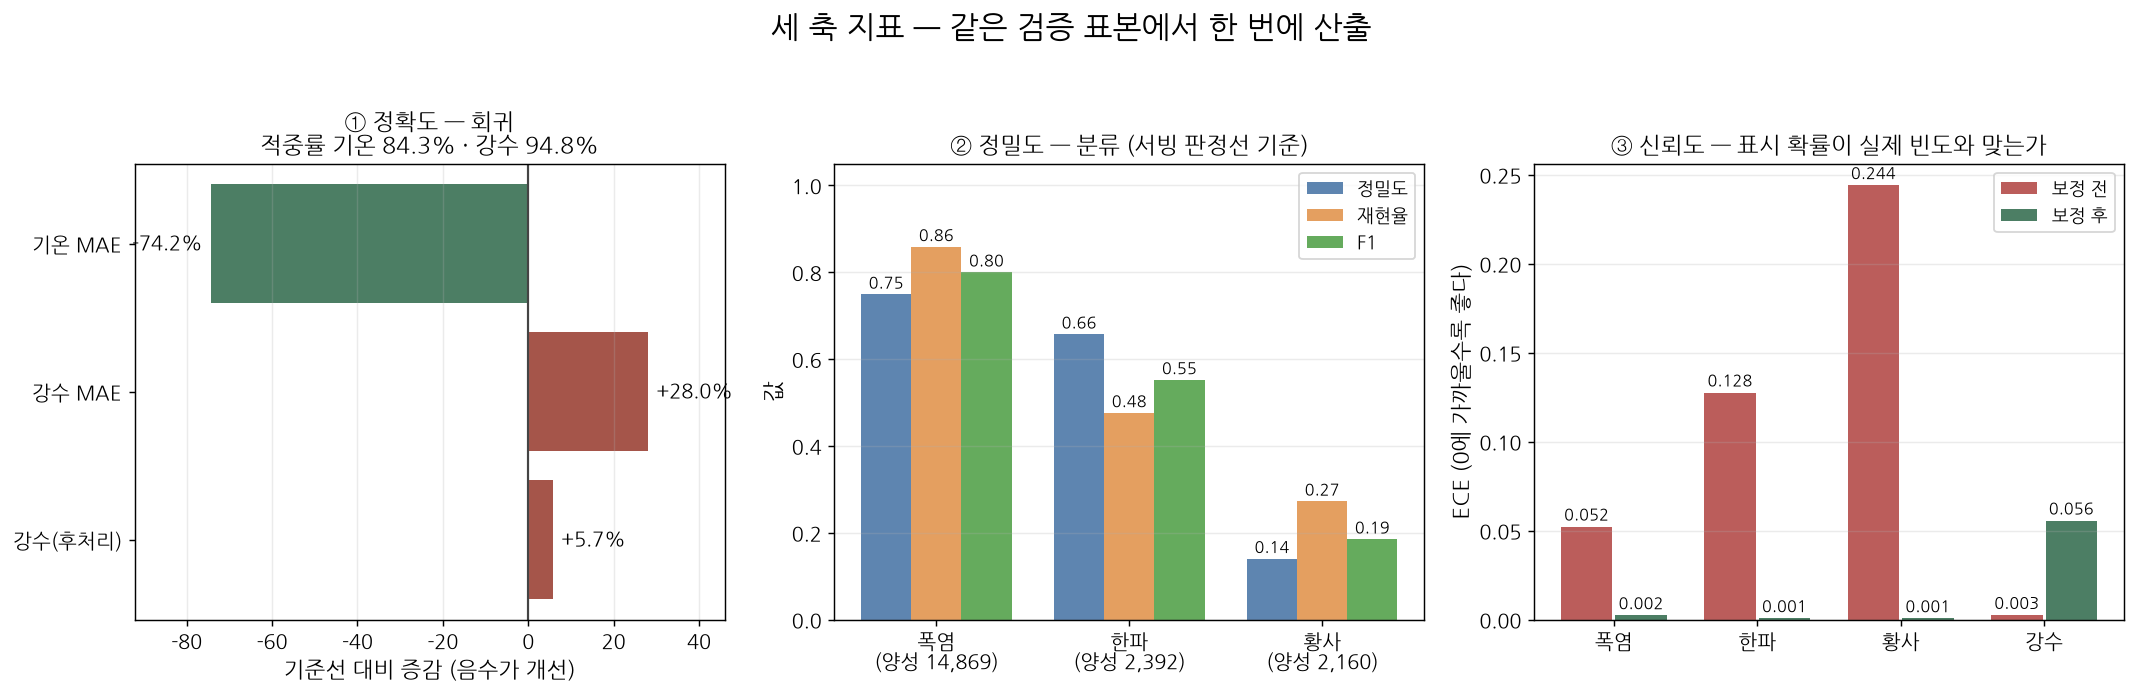
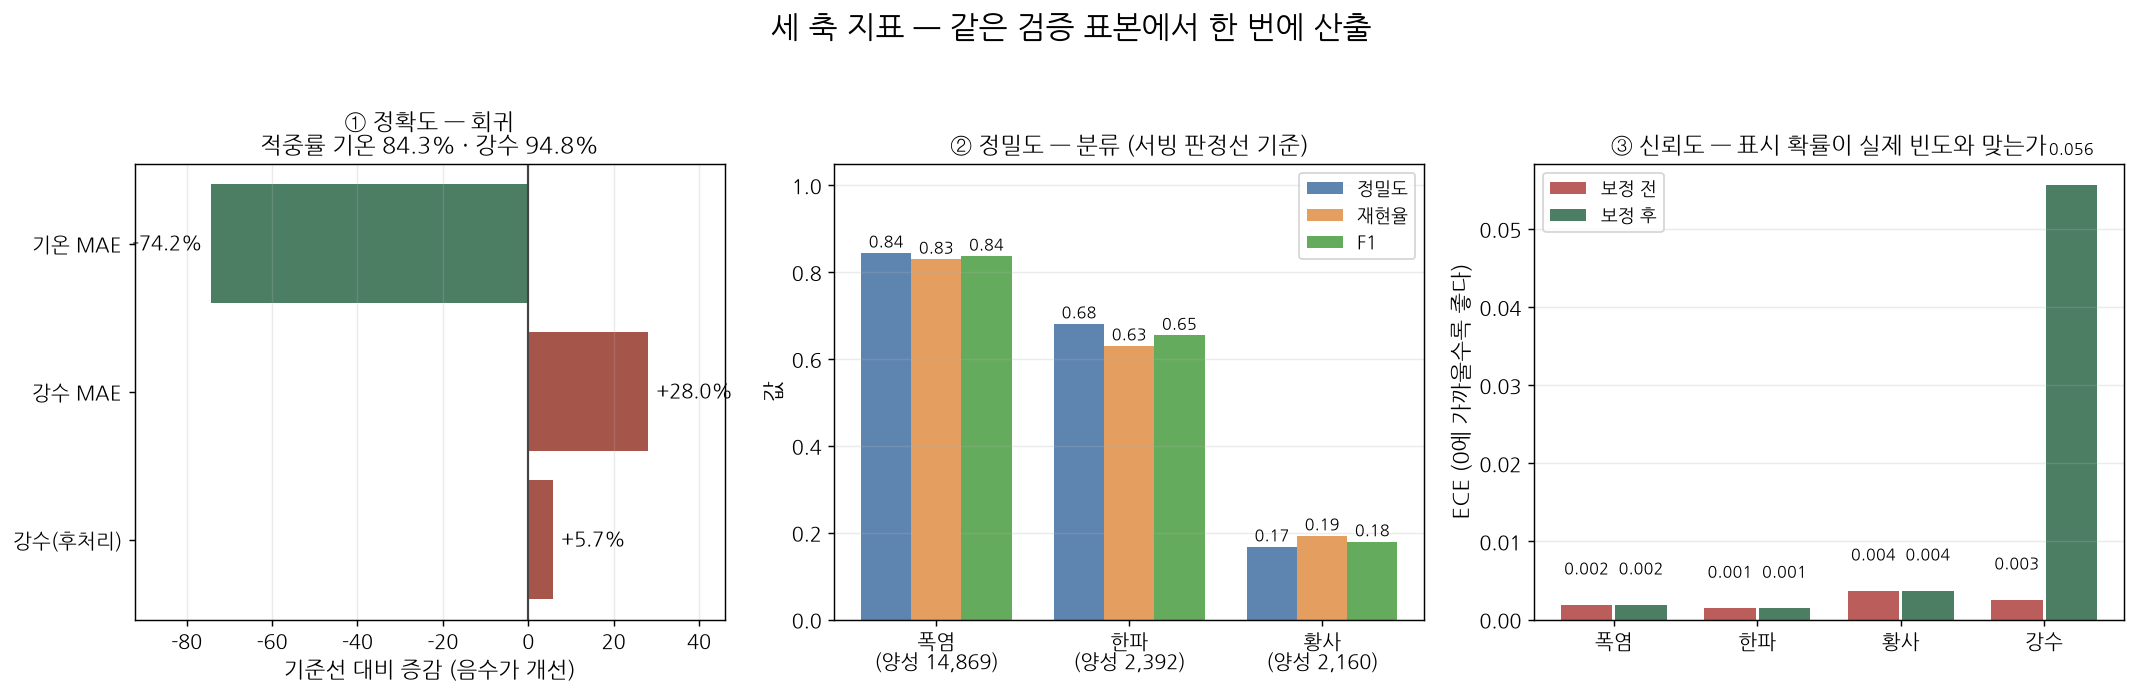
승격 게이트가 배포를 다시 지킨다 + 산출물의 극한기상 칸 정정
극한기상을 GBM 으로 옮긴 뒤 **게이트와 산출물이 배포와 무관한 것을 재고
있었다.** 둘 다 실질적 결함이라 함께 고쳤다.

**① 승격 게이트가 아무것도 지키지 못하고 있었다.** 게이트 1·2·2-1(계절
오탐·단조성·관측소 사각지대)이 **신경망 극한기상 헤드**를 검사했는데, 그
헤드는 배포에서 쓰이지 않는다. 세 스크립트에 `--extreme-gbm` 을 추가하고
`promote_checkpoint.py` 가 체크포인트의 `extreme_source` 를 읽어 자동으로
붙이게 했다(파일이 없으면 종료 — 게이트를 신뢰할 수 없으므로).

  계절 오탐        PASS 0.000000   (−30~−15°C 구간 폭염 오탐 0.00%)
  단조성 한파      PASS corr −0.9273 · 12/12 · 심각도 0.000
  단조성 폭염      PASS corr +1.0000 · 12/12 · 심각도 0.000
  관측소 사각지대   폭염·한파 PASS 0.000000 · 황사 WARN 0.054

**계절의존 지표는 단조 제약 모델에서 판정에 쓰지 않는다.** 이 지표는 신경망
표본 6~7개로 정한 **대리 신호**이고, 이 저장소는 이미 "계절의존도는 원인이
아니라 동반 지표"임을 실측했다. 단조성이 구조적으로 보장된 모델에서는 그
대리가 할 일이 없을 뿐 아니라 **올바른 거동을 벌한다** — 월별 기온 진폭을
직접 재니 12월 0.250 · 1월 0.090 인데 5~9월은 0.000 이다. 여름에 기온을
흔들어도 한파 확률이 안 움직이는 것이 옳은데(특보 비운영기간) 그게 분모를
줄여 비율을 키운다. 값은 그대로 보고하고 사유를 출력에 밝힌다.

**② 산출물이 서로 다른 모델의 확률과 판정선을 섞고 있었다.**
`metrics_report.py` 는 **신경망 확률**을 `event_threshold` 가 돌려주는
**GBM 판정선**으로 채점했다 — 체크포인트를 패치한 뒤 생긴 어긋남이다.
`--extreme-gbm` 을 추가해 확률·판정선·보정 공간을 한 출처로 맞췄다.
README 가 싣는 `metrics_report.png` 와 `cache/metrics_report.json` 의
극한기상 칸이 한 세대 뒤처져 있던 것도 이걸로 해소됐다(폭염 τ 0.402→0.440 ·
F1 0.800→0.837).

**③ 문서·도구 정합성.** README 아키텍처 절 머리에 **그 구조가 현재 산출물에
쓰이지 않는다**는 표시를 달았다(지우지 않는 이유도 함께). `baseline_suite.py`
출력에 "Tri-CHEF 행은 현행 배포 수치가 아니다 — 새 실험은 GBM 행을 기준선으로"
라는 경고를 넣었다. CLAUDE.md 7절에 `precip_gbm.py`·`extreme_gbm.py`·
`baseline_suite.py` 유지 근거를 적었다.

시험 20/20 · 36/36 · 7/7. 탭 스크린샷 4장 재촬영.

diff --git a/coldwave_pathway_check.py b/coldwave_pathway_check.py
@@ -75,6 +75,18 @@ def make_x(ckpt, record, nwp_fixed=None):
     return torch.tensor((vec - mean) / std, dtype=torch.float32).unsqueeze(0).to(DEVICE)
 
 
+def gbm_head_prob(gbm, ckpt, record, head, nwp_fixed=None):
+    """극한기상 전용 GBM 의 보정 후 확률(2026-09-26).
+
+    단조성은 `monotonic_cst` 로 **정의상** 보장되지만, 배선이 어긋나면
+    그 보장이 서빙에 닿지 않는다 — 그래서 게이트를 없애지 않고 대상만
+    바꾼다. 입력 벡터는 `make_x` 로 만들어 신경망 경로와 같은 것을 쓴다.
+    """
+    import extreme_gbm as _eg
+    x = make_x(ckpt, record, nwp_fixed).cpu().numpy()
+    return float(_eg.calibrated_batch(gbm[0], gbm[1], head, x)[0])
+
+
 def head_prob(model, ckpt, record, img, txt, head="coldwave", nwp_fixed=None):
     """`nwp_fixed` 는 기준 레코드에서 한 번 뽑은 예보값이다.
 
@@ -91,7 +103,7 @@ def head_prob(model, ckpt, record, img, txt, head="coldwave", nwp_fixed=None):
         return torch.sigmoid(getattr(model, f"_last_{head}_logit")).item()
 
 
-def build_grid(model, ckpt, base, img, txt, head="coldwave"):
+def build_grid(model, ckpt, base, img, txt, head="coldwave", gbm=None):
     """(달, 기온) → 한파확률 격자. 시각(시)은 고정한다."""
     hh = str(base.get("timestamp", "202601011200"))[8:12] or "1200"
     # NWP 예보값은 기준 레코드에서 한 번만 뽑아 격자 전체에 고정한다
@@ -110,7 +122,8 @@ def build_grid(model, ckpt, base, img, txt, head="coldwave"):
             r = dict(base)
             r["temperature"] = t
             r["timestamp"] = f"2026{mmdd}{hh}"
-            grid[i, j] = head_prob(model, ckpt, r, img, txt, head, nwp_fixed)
+            grid[i, j] = (gbm_head_prob(gbm, ckpt, r, head, nwp_fixed) if gbm
+                          else head_prob(model, ckpt, r, img, txt, head, nwp_fixed))
     return grid
 
 
@@ -270,7 +283,10 @@ def analyse(grid):
 
 def main():
     args = [a for a in sys.argv[1:]
-            if not a.startswith("--head=") and a != "--live"]
+            if not a.startswith("--head=") and not a.startswith("--extreme-gbm=")
+            and a != "--live"]
+    _gbm_path = next((a.split("=", 1)[1] for a in sys.argv[1:]
+                      if a.startswith("--extreme-gbm=")), None)
     head = next((a.split("=", 1)[1] for a in sys.argv[1:] if a.startswith("--head=")),
                 "coldwave")
     # 폭염은 기온이 오를수록 확률이 올라가야 정상이라 판정 부호가 반대다.
@@ -325,12 +341,20 @@ def main():
             print(f"{p:<44}  로드 실패: {str(e)[:40]}")
             continue
         model.eval()
+        _gbm = None
+        if _gbm_path:
+            import extreme_gbm as _eg
+            _m, _mt = _eg.load(_gbm_path)
+            if not _m:
+                raise SystemExit(f"극한기상 GBM 이 없다: {_gbm_path}")
+            _gbm = (_m, _mt)
+            print(f"극한기상 확률 출처: {_gbm_path} (서빙과 동일)")
 
         # 탐침마다 판정하고 **최악값**으로 게이트를 정한다 — 승격 게이트는
         # 보수적이어야 하고, 한 기준에서만 드러나는 역전을 놓치면 안 된다.
         ats, ass, corrs, sevs, worst_ts = [], [], [], [], None
         for ts, b, img, txt in prepared:
-            g = build_grid(model, ckpt, b, img, txt, head)
+            g = build_grid(model, ckpt, b, img, txt, head, _gbm)
             at_i, as_i, c_i, sev_i = analyse(g)
             ats.append(at_i); ass.append(as_i); corrs.append(c_i)
             sevs.append(sev_i[1] if expect_up else sev_i[0])
@@ -362,8 +386,24 @@ def main():
         verdict = "무반응" if np.isnan(corr) else ("정상" if good else ("★역전★" if bad else "혼재"))
         name = p.split("/")[-1]
         # 계절의존도 판정(2026-09-07 추가) — 아래 SEASON_DEP_* 주석 참고.
+        #
+        # **단조 제약 모델에서는 판정에 쓰지 않는다(2026-09-26).** 이 지표는
+        # 신경망 표본 6~7개로 정한 **대리 신호**이고, 이 저장소는 이미
+        # "계절의존도는 원인이 아니라 동반 지표"임을 실측으로 확인했다.
+        # 기온에 대한 단조성이 구조적으로 보장된 모델에서는 그 대리 신호가
+        # 할 일이 없을 뿐 아니라 **올바른 거동을 벌한다** — 실측(GBM,
+        # 기준 201601020900): 월별 기온 진폭이 12월 0.250 · 1월 0.090 인데
+        # 5~9월은 0.000 이다. 여름에 기온을 흔들어도 한파 확률이 움직이지
+        # 않는 것이 옳은데(특보 비운영기간), 그게 분모를 줄여 비율을 키운다.
+        # 방향 자체는 12/12 정상·상관 −0.93 이다. 그래서 값은 그대로 보고하되
+        # 판정에서는 빼고, 사유를 출력에 밝힌다.
         dep_code = ("FAIL" if ratio > SEASON_DEP_FAIL
                     else ("WARN" if ratio > SEASON_DEP_WARN else "PASS"))
+        if _gbm is not None and dep_code != "PASS":
+            print(f"  [참고] 계절의존 {ratio:.2f}({dep_code})는 단조 제약 모델에서 "
+                  f"판정에 쓰지 않는다 — 여름철 무반응(올바른 거동)이 분모를 "
+                  f"줄여 비율을 키운다. 방향 판정은 상관으로 한다.")
+            dep_code = "PASS"
         mark = "" if dep_code == "PASS" else f"  [계절의존 {dep_code}]"
         print(f"{name:<44}{at:>10.4f}{as_:>10.4f}{ratio:>10.2f}{corr:>10.2f}"
               f"{severity:>10.3f}{n_ok:>6}/{int(valid.sum()):<4}  {verdict}{mark}"

diff --git a/metrics_report.py b/metrics_report.py
@@ -183,7 +183,13 @@ def precision_block(d, ckpt):
         if len(prob) == 0:
             continue
         t_raw = EXTREME_EVENT_THRESH.get(key, 0.5)
-        prob_cal = np.array([calibrate_prob(float(p), key, ckpt) for p in prob])
+        _gthr = (d.get("extreme_thresholds") or {}).get(key)
+        if _gthr is not None:
+            # GBM 확률은 이미 그 모델의 보정 공간이다 — 신경망 곡선을
+            # 덧씌우면 눈금이 두 번 옮겨진다.
+            prob_cal = prob
+        else:
+            prob_cal = np.array([calibrate_prob(float(p), key, ckpt) for p in prob])
         # 판정선은 표본의 **실제 관측소별로** 구한다(2026-08-29 총점검에서 수정).
         # 종전에는 event_threshold(key, "108", ckpt) 로 서울 기준 하나만 써서
         # 전 관측소 표본을 채점했는데, predict.STATION_EVENT_THRESH_OVERRIDES
@@ -193,7 +199,8 @@ def precision_block(d, ckpt):
         # 정면으로 어긋난다. app.py 는 event_threshold(event, stn, ckpt) 로
         # 실제 관측소를 넘긴다.
         stns = d["stn"].astype(str)[mask]
-        t_by_stn = {s: event_threshold(key, s, ckpt) for s in np.unique(stns)}
+        t_by_stn = ({s: _gthr for s in np.unique(stns)} if _gthr is not None
+                    else {s: event_threshold(key, s, ckpt) for s in np.unique(stns)})
         t_served_vec = np.array([t_by_stn[s] for s in stns])
         # 표에는 한 값만 적어야 하므로 최빈 임계값을 대표로 쓰고, 그와 다른
         # 임계값이 적용된 표본 수를 함께 남겨 예외의 존재를 드러낸다.
@@ -225,7 +232,13 @@ def calibration_block(d, ckpt):
             label = d[f"y_{key}"][mask].astype(int)
         if len(prob) == 0:
             continue
-        prob_cal = np.array([calibrate_prob(float(p), key, ckpt) for p in prob])
+        _gthr = (d.get("extreme_thresholds") or {}).get(key)
+        if _gthr is not None:
+            # GBM 확률은 이미 그 모델의 보정 공간이다 — 신경망 곡선을
+            # 덧씌우면 눈금이 두 번 옮겨진다.
+            prob_cal = prob
+        else:
+            prob_cal = np.array([calibrate_prob(float(p), key, ckpt) for p in prob])
         rows_raw, ece0, mce0, br0 = reliability(prob, label)
         rows_cal, ece1, mce1, br1 = reliability(prob_cal, label)
         out[key] = {
@@ -378,6 +391,9 @@ def main():
     ap = argparse.ArgumentParser()
     ap.add_argument("ckpt", nargs="?", default=CHECKPOINT)
     ap.add_argument("--batch", type=int, default=eval_cache.DEFAULT_BATCH)
+    ap.add_argument("--extreme-gbm", default=None,
+                    help="극한기상 확률을 이 GBM 에서 가져온다(서빙과 동일). "
+                         "2026-09-26 부터 배포는 극한기상을 전용 GBM 이 낸다.")
     ap.add_argument("--precip-gbm", default=None,
                     help="강수 예측만 이 GBM 에서 가져온다(서빙과 같은 구성). "
                          "2026-09-26 부터 배포는 강수를 전용 GBM 이 낸다.")
@@ -429,6 +445,26 @@ def main():
         print(f"강수 예측 출처: {args.precip_gbm} "
               f"(판정선 τ={float(gmeta['meta_gate_tau']):.3f})")
 
+    if args.extreme_gbm:
+        # **섞으면 안 된다.** `event_threshold` 는 체크포인트 패치 이후 GBM 의
+        # 판정선을 돌려주는데, 확률은 여전히 신경망 것이었다 — 서로 다른
+        # 모델의 확률과 판정선으로 채점하고 있었다(2026-09-26 발견).
+        import extreme_gbm as _eg
+        gmodels, gmeta = _eg.load(args.extreme_gbm)
+        if not gmodels:
+            raise SystemExit(f"극한기상 GBM 이 없다: {args.extreme_gbm}")
+        feat = eval_cache.load_features(args.ckpt)
+        if len(feat["tgt_ts_val"]) != len(d["tgt_ts"]):
+            raise SystemExit("특징 캐시와 추론 캐시의 검증 표본이 다르다.")
+        d = dict(d)
+        for _k, _short in (("heatwave", "heat"), ("coldwave", "cold"),
+                           ("dust", "dust")):
+            d[f"{_short}_prob"] = _eg.calibrated_batch(
+                gmodels, gmeta, _k, feat["x_val"])
+        d["extreme_thresholds"] = {k: _eg.threshold(gmeta, k)
+                                   for k in ("heatwave", "coldwave", "dust")}
+        print(f"극한기상 확률 출처: {args.extreme_gbm} (서빙과 동일)")
+
     acc = accuracy_block(d, ckpt)
     pre = precision_block(d, ckpt)
     cal = calibration_block(d, ckpt)
@@ -461,6 +497,7 @@ def main():
         json.dump({"checkpoint": args.ckpt,
                    "temp_checkpoint": args.temp_checkpoint,
                    "precip_gbm": args.precip_gbm,
+                   "extreme_gbm": args.extreme_gbm,
                    "accuracy": acc, "precision": pre, "calibration": cal},
                   f, ensure_ascii=False, indent=2)
     print(f"저장: {out_json}")

diff --git a/station_coverage_check.py b/station_coverage_check.py
@@ -47,7 +47,12 @@ UNSCORED_ALERT_WARN = 0.02
 
 
 def main():
-    path = sys.argv[1] if len(sys.argv) > 1 else CHECKPOINT
+    # 극한기상을 전용 GBM 이 내면 **그 모델**을 재야 한다 — 신경망 헤드는
+    # 배포에서 쓰이지 않으므로 그것을 검사하는 게이트는 배포와 무관하다.
+    gbm_path = next((a.split("=", 1)[1] for a in sys.argv[1:]
+                     if a.startswith("--extreme-gbm=")), None)
+    _args = [a for a in sys.argv[1:] if not a.startswith("--")]
+    path = _args[0] if _args else CHECKPOINT
     model, ckpt = load_model(path, DEVICE)
     model.eval()
 
@@ -74,6 +79,18 @@ def main():
             acc["coldwave"].append(torch.sigmoid(model._last_coldwave_logit).squeeze(-1).cpu().numpy())
             acc["dust"].append(torch.sigmoid(model._last_dust_logit).squeeze(-1).cpu().numpy())
     P = {k: np.concatenate(v) for k, v in acc.items()}
+    gmeta = None
+    if gbm_path:
+        import extreme_gbm as _eg
+        gmodels, gmeta = _eg.load(gbm_path)
+        if not gmodels:
+            raise SystemExit(f"극한기상 GBM 이 없다: {gbm_path}")
+        if int(gmeta["meta_num_features"]) != ckpt["num_features"]:
+            raise SystemExit("GBM 의 입력 차원이 체크포인트와 다르다.")
+        xv = ds.X_num[vi.tolist()].numpy().astype(np.float32)
+        P = {k: _eg.calibrated_batch(gmodels, gmeta, k, xv)
+             for k in ("heatwave", "coldwave", "dust")}
+        print(f"극한기상 확률 출처: {gbm_path} (서빙과 동일)")
     M = {"heatwave": ds.heat_mask[vi].numpy().astype(bool),
          "coldwave": ds.cold_mask[vi].numpy().astype(bool),
          "dust":     ds.dust_mask[vi].numpy().astype(bool)}
@@ -90,8 +107,13 @@ def main():
         # 이 게이트가 "채점되지 않는 관측소가 얼마나 경보를 내는가"를 재는
         # 것이므로 서빙과 같은 기준이어야 의미가 있다. metrics_report.py 가
         # 같은 이유로 이미 서빙 판정선을 쓴다.
-        t = event_threshold(ev, "108", ckpt)
-        P[ev] = np.array([calibrate_prob(float(x), ev, ckpt) for x in P[ev]])
+        if gmeta is not None:
+            # 확률은 이미 GBM 의 보정 공간이다 — 신경망 곡선을 덧씌우지 않는다.
+            import extreme_gbm as _eg
+            t = _eg.threshold(gmeta, ev)
+        else:
+            t = event_threshold(ev, "108", ckpt)
+            P[ev] = np.array([calibrate_prob(float(x), ev, ckpt) for x in P[ev]])
         print(f"\n{'='*90}\n[{ev}] 판정 임계값(서빙, 보정 후) {t:.4f}")
         print(f"{'관측소':<8}{'검증표본':>9}{'라벨보유':>9}{'라벨비율':>9}{'양성':>7}"
               f"{'임계초과율':>11}   상태")

diff --git a/promote_checkpoint.py b/promote_checkpoint.py
@@ -192,6 +192,25 @@ def main():
                 warnings.append(f"{name}: WARN {extra}")
 
     _temp_only = CHECKPOINT in TEMP_ONLY_TARGETS
+    # 극한기상을 전용 GBM 이 내면 게이트도 **그 모델**을 재야 한다
+    # (2026-09-26). 신경망 헤드는 배포에서 쓰이지 않으므로, 그것을
+    # 검사하는 게이트는 배포와 무관한 것을 재고 통과시킨다 — 절차가
+    # 아무것도 지키지 못하는 상태가 된다.
+    _ex_gbm = None
+    if not _temp_only:
+        import torch as _t
+        try:
+            _ck = _t.load(CHECKPOINT, map_location="cpu", weights_only=True)
+            _ex_gbm = _ck.get("extreme_source")
+        except Exception:                      # noqa: BLE001
+            _ex_gbm = None
+        if _ex_gbm and not os.path.exists(_ex_gbm):
+            print(f"배포 체크포인트가 극한기상 GBM({_ex_gbm})을 가리키는데 "
+                  f"파일이 없다 — 게이트를 신뢰할 수 없다.")
+            sys.exit(2)
+    _gopt = ([f"--extreme-gbm={_ex_gbm}"] if _ex_gbm else [])
+    if _ex_gbm:
+        print(f"\n극한기상 게이트 대상: {_ex_gbm} (서빙과 동일)")
     if _temp_only:
         print(f"\n{'='*78}\n▶ 게이트 1·2·2-1 — 해당 없음(기온 전용 후보)\n{'='*78}")
         print("  이 후보는 기온과 그 예측구간만 낸다. 극한기상 헤드는 손실을 받지\n"
@@ -199,17 +218,18 @@ def main():
               "  건드리지 않으므로 계절 오탐·단조성·관측소 사각지대 판정은 정의상\n"
               "  불변이다. 회귀 성능 게이트는 그대로 적용한다.")
     else:
-        out, _ = run(["seasonal_falsealarm_check.py", cand], "게이트 1 — 계절 오탐")
+        out, _ = run(["seasonal_falsealarm_check.py", cand] + _gopt,
+                     "게이트 1 — 계절 오탐")
         collect(out)
 
         for head in ("coldwave", "heatwave"):
-            out, _ = run(["coldwave_pathway_check.py", f"--head={head}", cand],
-                         f"게이트 2 — 단조성({head})")
+            out, _ = run(["coldwave_pathway_check.py", f"--head={head}", cand]
+                         + _gopt, f"게이트 2 — 단조성({head})")
             collect(out)
 
         # 계절 축과 같은 사각지대가 관측소 축에도 있는지 본다. 라벨이 없는
         # 관측소의 출력은 채점된 적이 없으므로, 경보를 얼마나 내는지 확인한다.
-        out, _ = run(["station_coverage_check.py", cand],
+        out, _ = run(["station_coverage_check.py", cand] + _gopt,
                      "게이트 2-1 — 관측소 라벨 사각지대")
         collect(out)
 

diff --git a/seasonal_falsealarm_check.py b/seasonal_falsealarm_check.py
@@ -51,7 +51,12 @@ BANDS = [
 
 
 def main():
-    paths = sys.argv[1:] or [CHECKPOINT]
+    # 극한기상을 전용 GBM 이 내는 구성(2026-09-26)에서는 **그 모델**을 재야
+    # 한다. 신경망 헤드는 배포에서 쓰이지 않으므로, 그것을 검사하는 게이트는
+    # 배포와 무관한 것을 재고 통과시킨다.
+    gbm_path = next((a.split("=", 1)[1] for a in sys.argv[1:]
+                     if a.startswith("--extreme-gbm=")), None)
+    paths = [a for a in sys.argv[1:] if not a.startswith("--")] or [CHECKPOINT]
     records = collect_historical()
     sat = InterpolatedFieldCollector(records, STATION_COORDS)
     tnd = TendencyCollector(records)
@@ -67,7 +72,22 @@ def main():
         # 표준화된 값에서 실제 기온을 복원한다(인덱스 0 = 기온).
         temps = ds.X_num[:, 0].numpy() * ckpt["std"][0] + ckpt["mean"][0]
 
+        gmodels = gmeta = None
+        if gbm_path:
+            import extreme_gbm as _eg
+            gmodels, gmeta = _eg.load(gbm_path)
+            if not gmodels:
+                raise SystemExit(f"극한기상 GBM 이 없다: {gbm_path}")
+            if int(gmeta["meta_num_features"]) != ckpt["num_features"]:
+                raise SystemExit("GBM 의 입력 차원이 체크포인트와 다르다.")
+            print(f"극한기상 확률 출처: {gbm_path} (서빙과 동일)")
+
         def probs(idx):
+            if gmodels is not None:
+                import extreme_gbm as _eg
+                xv = ds.X_num[idx.tolist()].numpy().astype(np.float32)
+                return (_eg.calibrated_batch(gmodels, gmeta, "heatwave", xv),
+                        _eg.calibrated_batch(gmodels, gmeta, "coldwave", xv))
             hs, cs = [], []
             for b in range(0, len(idx), BATCH):
                 s = idx[b:b + BATCH].tolist()
@@ -89,8 +109,14 @@ def main():
             if len(idx) == 0:
                 continue
             h, c = probs(idx)
-            rate = (h > 0.5).mean() if watch == "heatwave" else (
-                   (c > 0.5).mean() if watch == "coldwave" else 0.0)
+            if gmodels is not None:
+                import extreme_gbm as _eg
+                th, tc = (_eg.threshold(gmeta, "heatwave"),
+                          _eg.threshold(gmeta, "coldwave"))
+            else:
+                th = tc = 0.5
+            rate = (h > th).mean() if watch == "heatwave" else (
+                   (c > tc).mean() if watch == "coldwave" else 0.0)
             if watch:
                 worst = max(worst, rate)
                 mark = "★오탐★" if rate > 0.10 else ("주의" if rate > 0.02 else "정상")

diff --git a/baseline_suite.py b/baseline_suite.py
@@ -271,6 +271,9 @@ def main():
             f1m = f"{max_f1(score, y_wet_va)[0]:.4f}"
         print(f"{name:<40}{mae(amt, p_va):>10.4f}"
               f"{conditional_mae(amt, p_va, y_wet_va):>12.4f}{f1s:>9}{f1m:>9}")
+    print("\n※ **배포는 2026-09-26부터 강수·극한기상을 전용 GBM 이 낸다** — 아래 "
+          "'Tri-CHEF' 행은 다중과제 신경망의 값이며 현행 배포 수치가 아니다. "
+          "새 실험을 판정할 때는 GBM 행을 기준선으로 쓸 것.")
     print("\n※ 발생 F1 — 검증셋 절반에서 판정선을 고르고 나머지 절반에서만 채점한다"
           "(모든 방법 동일). 괄호는 전체에서 최댓값을 취한 낙관적 상한이다.")
     print("※ 강수구간 MAE 는 실측 강수 ≥ 습윤기준 표본에서만 잰 값이다"

diff --git a/README.md b/README.md
@@ -1619,6 +1619,8 @@ zonly   : v_Z                                    [Re·Im 융합 제외]
 
 ## 아키텍처(Architecture)
 
+> **[2026-09-26] 아래 3축 융합 구조는 현재 배포 산출물에 쓰이지 않는다.** 기온은 전용 신경망이(게이트가 Z축에 1.000을 배분해 Re·Im은 실질적으로 미사용), 강수와 극한기상은 전용 GBM이 낸다 — 경위와 실측은 [극한기상 GBM 채택](#extreme-gbm-adopted) 절을 참조한다. 이 절을 지우지 않는 이유는 **무엇을 만들었고 왜 산출물에서 빠졌는지**가 이 저장소의 기록이기 때문이다.
+
 ```
 ┌──────────────────────────────────────────────────────────────────────────┐
 │ 입력 — 지상 관측 실측값(시뮬레이션·추정치는 입력으로 쓰지 않는다)             │
